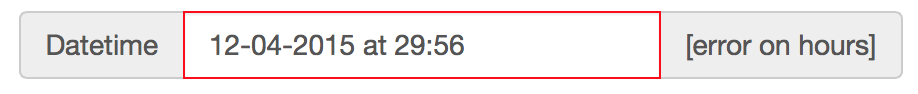
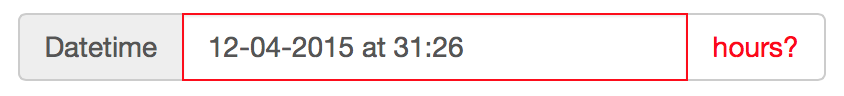
Improvements

Changed region(s): [[0.0, 0.1064, 0.9858, 0.8511], [0.0308, 0.3617, 0.5545, 0.5957]]

diff --git a/index.html b/index.html
@@ -9,11 +9,17 @@
 		<script src="http://ajax.googleapis.com/ajax/libs/angularjs/1.3.14/angular.min.js"></script>
 		<script src="vm-bootstrap-datetimepicker.js"></script>
 		<script src="app.js"></script>
+
+		<style>
+		.vm-input-group {
+		  margin: 5rem;
+		}
+</style>
 	</head>
 
 	<body ng-app="TestApp" ng-controller="AppController">
 
-		<span vm-bootstrap-datetime-input data-label-picker="Datetime" ng-model="date"></span>
+		<vm-bootstrap-datetime-input data-label-picker="Datetime" ng-model="date"></vm-bootstrap-datetime-input>
 
 	</body>
 </html>

diff --git a/vmBootstrapDatePicker-template.html b/vmBootstrapDatePicker-template.html
@@ -1,6 +1,7 @@
 
 <div class="input-group vm-input-group" class="vmBootstrapDatetimepicker">
-  <span class="input-group-addon">{{label}}</span>
+  <span class="input-group-addon" ng-show="label">{{label}}</span>
   <input type="text" class="form-control" ng-model="bdate" ng-class="validityClasses">
-  <span ng-show="error" class="input-group-addon">[error on {{error}}]</span>
+  <span ng-if="error" class="input-group-addon errorLabel">{{error}}?</span>
+  
 </div>

diff --git a/vm-bootstrap-datetimepicker.js b/vm-bootstrap-datetimepicker.js
@@ -13,6 +13,8 @@ angular.module('vm-bootstrap-datetimepicker', []).directive('vmBootstrapDatetime
     },
     controller: ['$scope', function($scope) {
 
+      $scope.label = $scope.label || " ";
+
 
       var invalidIndexes = ['years', 'months', 'days', 'hours', 'minutes', 'seconds', 'milliseconds'];
 

diff --git a/vm-bootstrap-datetimepicker.css b/vm-bootstrap-datetimepicker.css
@@ -1,9 +1,14 @@
-.vm-input-group {
-  margin: 5rem;
-}
+
 .ng-dirty.ng-valid {
   border-color: lightgreen;
  }
 .ng-dirty.ng-invalid {
   border-color: red;
+ }
+
+.errorLabel {
+ 	background: none;
+ 	color: red;
+ 	/*position: absolute;
+ 	right: 0;*/
  }

diff --git a/README.md b/README.md
@@ -11,8 +11,8 @@ Moment.js is used for parsing, formatting and validating the datetime.
 
 ### USAGE
 
-The module requires Moment.js and, obviously, AngularJS (tested v1.3.14). Also bootstrap css is required.
-Import in your project Moment.js (with or without locales), AngularJS, bootstrap.css, vm-datetimepicker.js and vm-datetimepicker.css
+The module requires Moment.js and, obviously, AngularJS (tested v1.3.14). Also bootstrap css is required (tested 3.3.4).
+Import in your project Moment.js (with or without locales), AngularJS, bootstrap.css and vm-bootstrap-datetimepicker.js
 When you're done, your setup should look similar to the following:
 
 ```html
@@ -20,7 +20,6 @@ When you're done, your setup should look similar to the following:
 <html>
 	<head>
 		<link rel="stylesheet" href="https://maxcdn.bootstrapcdn.com/bootstrap/3.3.4/css/bootstrap.min.css">
-		<link href="vm-bootstrap-datetimepicker.css" media="all" rel="stylesheet" type="text/css">
 		<script src="http://momentjs.com/downloads/moment-with-locales.min.js"></script>
 		<script src="http://ajax.googleapis.com/ajax/libs/angularjs/1.3.14/angular.min.js"></script>
 		<script src="vm-bootstrap-datetimepicker.js"></script>
@@ -43,7 +42,9 @@ When you're done, your setup should look similar to the following:
 To create a datetime picker:
 * Add the module vm-bootstrap-datetimepicker as a dependency to your app module.
 * Add the vm-bootstrap-datetime-input directive to your element and it will be replaced. A model is required.
+* Optionally you can import vm-bootstrap-datepicker.css, with minimal validation style
 
+You can set the label on left side specifying the attr data-label-picker on vm-bootstrap-datetime element.
 Input has .ng-valid or .ng-invalid and others classes provided by AngularJS validation.
 
 I hope this can be a useful starting point for datepicker of your projects ;)
